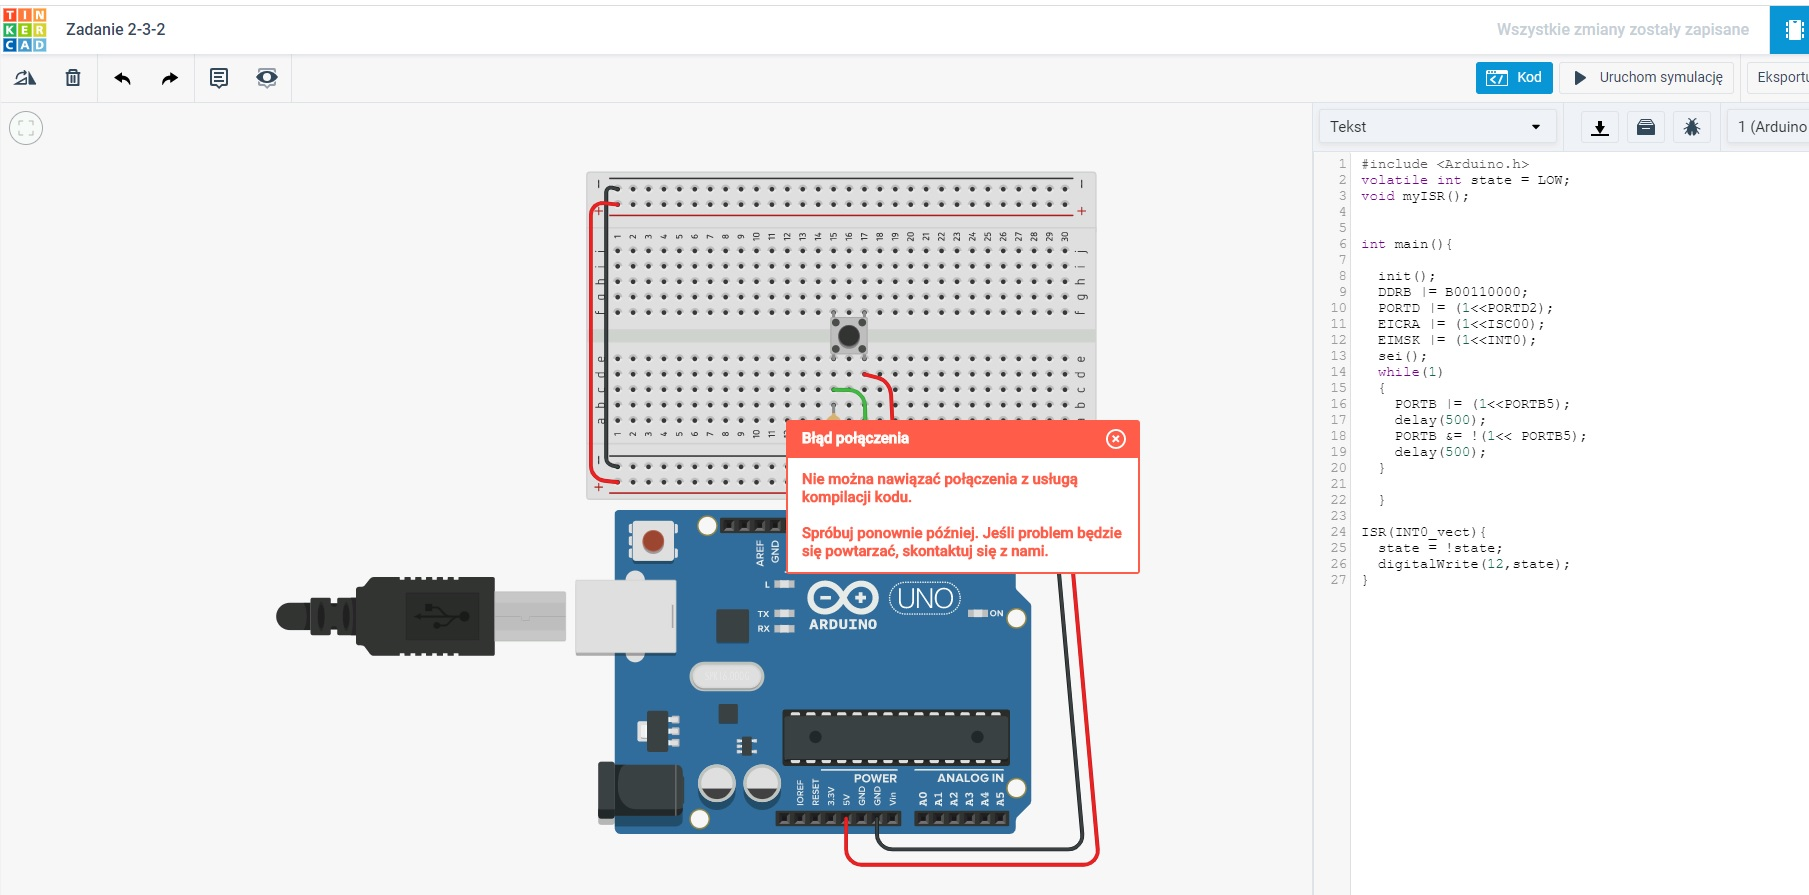
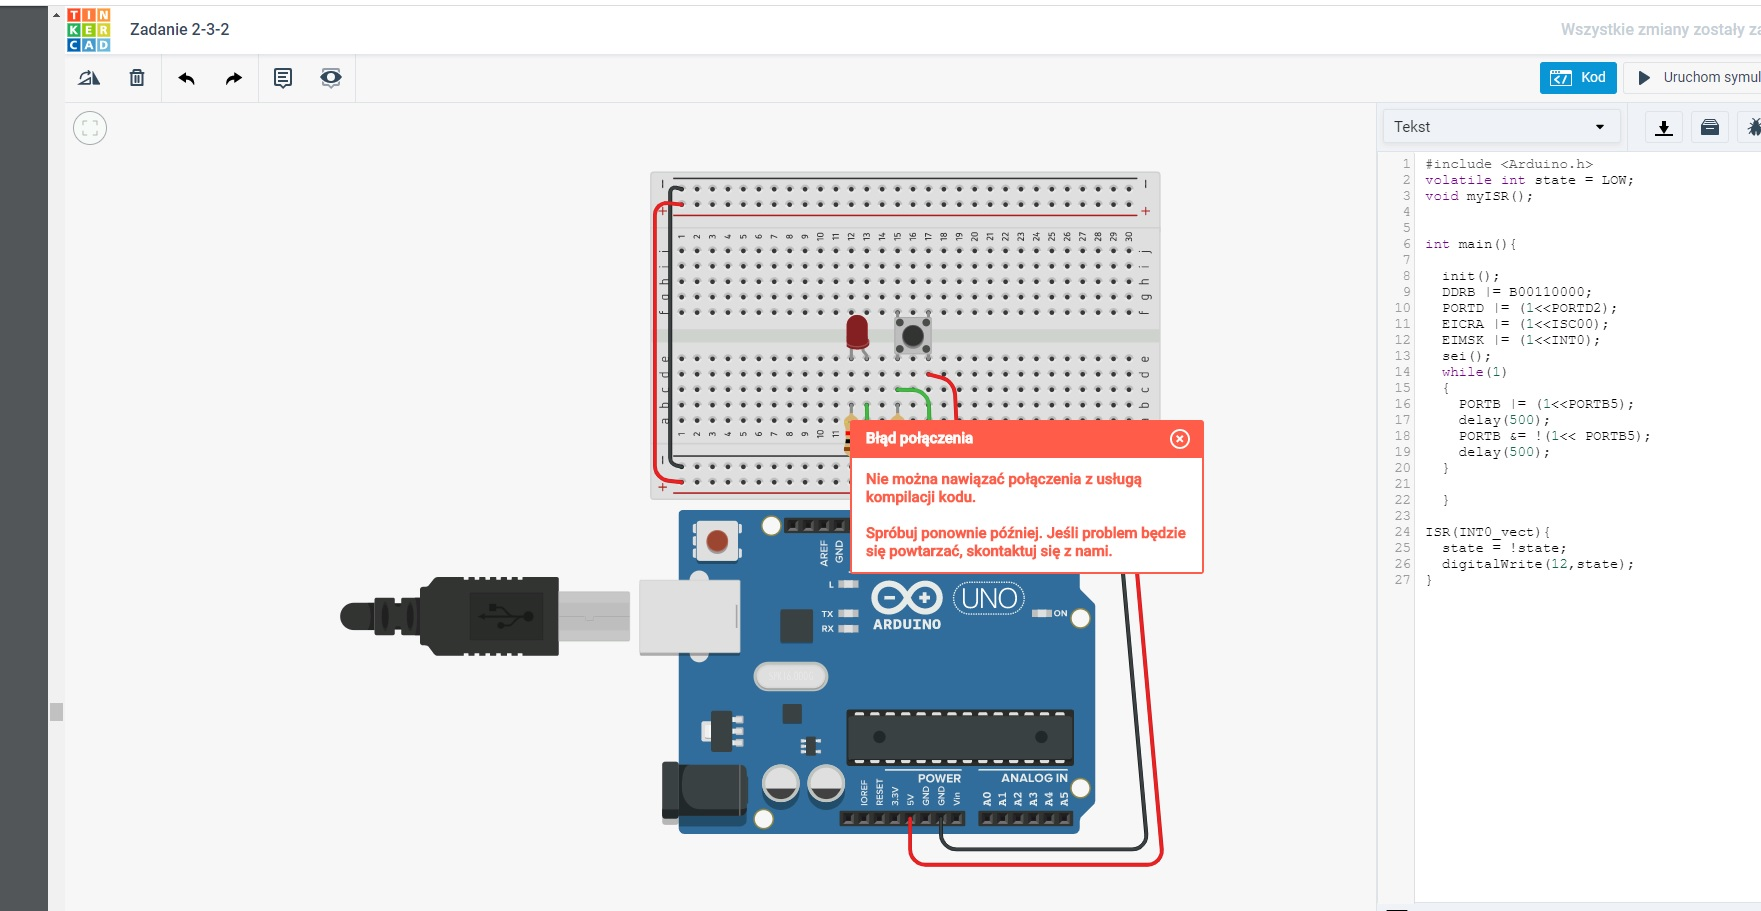
dodanie odpowiedzi oraz zmiana zdjęcia na poprawne

diff --git a/README.md b/README.md
@@ -13,4 +13,7 @@ Numer albumu: 72036
 Grupa studencka: WELE18EQ2S1
 
 # Pytania do zadań z instrukcji
-...
+W jaki sposób można określić czas trwania
+opóźnienia zrealizowanego z użyciem pętli?
+
+Zmniejszając wartość "5" na mniejszą, użytą w pętlach do dekrementacji
